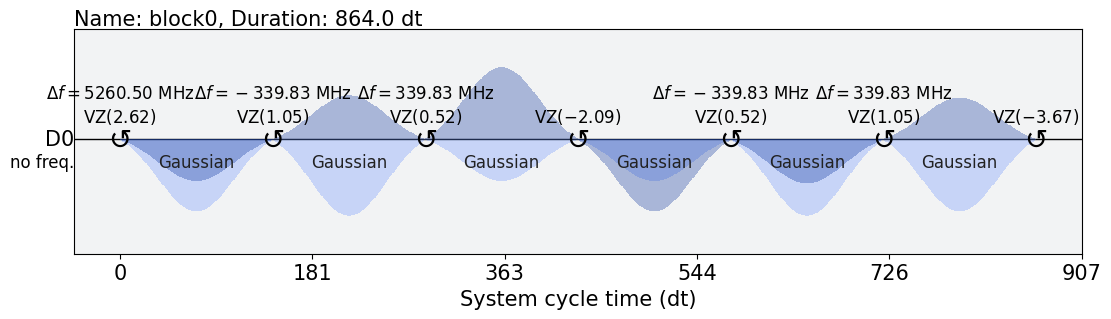
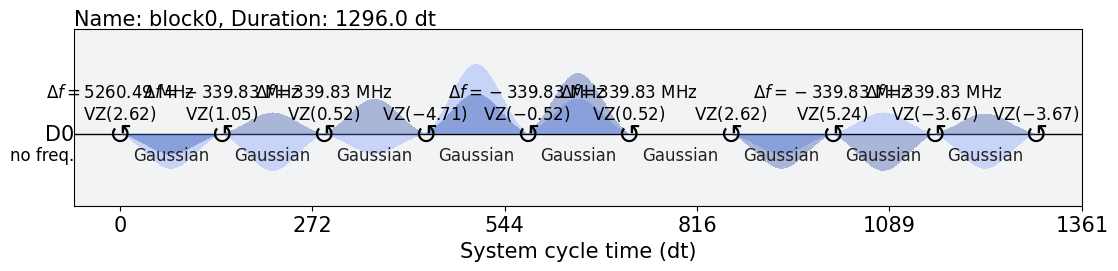
Update_for_qc_algorithm
- Update transpilation
-  Update algo_implementation
- Update Instruction_structure

Changed region(s): [[0.0, 0.0295, 1.0, 0.9742]]

diff --git a/src/algo_implementation.py b/src/algo_implementation.py
@@ -25,7 +25,13 @@ from src.quantumcircuit.QC import Qutrit_circuit
 from src.vm_backend.QASM_backend import QASM_Simulator
 from src.decomposition.transpilation import Pulse_Wrapper, SU3_matrices
 from src.pulse import Pulse01, Pulse12
+from src.pulse_creation import GateSchedule
+# Qiskit library
+from qiskit import QuantumCircuit
+from qiskit import pulse
+from qiskit.circuit import Gate
 from qiskit_ibm_provider.ibm_provider import IBMProvider
+from matplotlib import pyplot as plt
 
 pi = np.pi
 
@@ -34,7 +40,7 @@ Hardware configuration
 """
 
 provider = IBMProvider()
-backend = provider.get_backend('ibm_nairobi')
+backend = provider.get_backend('ibm_brisbane')
 # get information about backend
 backend_defaults = backend.defaults()
 backend_properties = backend.properties()
@@ -44,8 +50,8 @@ drive_freq = backend.properties().qubit_property(0)['frequency'][0]
 anha_freq = backend.properties().qubit_property(0)['anharmonicity'][0]
 qc_list = []
 
-pulse01 = Pulse01(frequency=drive_freq, x_amp=0.13884080278518465, duration=144)
-pulse12 = Pulse12(frequency=drive_freq + anha_freq, x_amp=0.12084181361250045, duration=144, pulse01=pulse01)
+pulse01 = Pulse01(frequency=drive_freq, x_amp=0.19853023611050985, duration=120)
+pulse12 = Pulse12(frequency=drive_freq + anha_freq, x_amp=0.19853023611050985, duration=120, pulse01=pulse01)
 n_qutrit = 1
 
 """
@@ -76,40 +82,73 @@ u_ft = (1 / np.sqrt(3)) * np.array([[omega, 1, np.conj(omega)],
                                     [np.conj(omega), 1, omega]], dtype=complex)
 u_dft = np.matrix(u_ft).H
 """
+Prepare for discriminator
+"""
+circ_list = []
+for i in range(3):
+    circ = QuantumCircuit(1, 1)
+    if i == 1:
+        circ.x(0)
+    elif i == 2:
+        # x02_sched = GateSchedule.x_amp_gaussian(pulse_model=Pulse12, qubit=0,
+        #                                         backend=backend, x_amp=0.19853023611050985)
+        with pulse.build(backend=backend) as x02_sched:
+            drive_chan = pulse.channels.DriveChannel(0)
+            pulse.set_frequency(drive_freq + anha_freq, drive_chan)
+            pulse.play(pulse.Gaussian(duration=120,
+                                      sigma=30, amp=0.19853023611050985), drive_chan)
+        custom_gate = Gate('my_custom_gate', 1, [i])
+        circ.add_calibration('my_custom_gate', [0], x02_sched, [i])
+        circ.append(custom_gate, [0])
+    circ_list.append(circ)
+"""
 Theoretically implementation
 """
-final_value = []
-qc = Qutrit_circuit(1, None)
 
-qc.add_gate("u_ft", first_qutrit_set=0)
-# u_ft_decompose = SU3_matrices(su3=u_ft, qutrit_index=0, n_qutrits=1)
-# qc_sub = u_ft_decompose.decomposed_into_qc()
-# qc += qc_sub
+for i in range(6):
+    qc = Qutrit_circuit(1, None)
 
-# decomposer = SU3_matrices(su3=matrix_array[0], qutrit_index=0, n_qutrits=1)
-# qc_sub = decomposer.decomposed_into_qc()
-# qc += qc_sub
+    qc.add_gate("u_ft", first_qutrit_set=0)
+    # u_ft_decompose = SU3_matrices(su3=u_ft, qutrit_index=0, n_qutrits=1)
+    # qc_sub = u_ft_decompose.decomposed_into_qc()
+    # qc += qc_sub
+    if i != 0:
+        qc.add_customized_gate("custom_gate_0", first_qutrit_set=0, custom_matrix=matrix_array[i])
+    # decomposer = SU3_matrices(su3=matrix_array[1], qutrit_index=0, n_qutrits=1)
+    # qc_sub = decomposer.decomposed_into_qc()
+    # qc += qc_sub
 
-qc.add_gate("u_ft", first_qutrit_set=0, is_dagger=True)
-# u_dft_decompose = SU3_matrices(su3=u_dft, qutrit_index=0, n_qutrits=1)
-# qc_sub = u_dft_decompose.decomposed_into_qc()
-# qc += qc_sub
+    qc.add_gate("u_ft", first_qutrit_set=0, is_dagger=True)
+    # u_dft_decompose = SU3_matrices(su3=u_dft, qutrit_index=0, n_qutrits=1)
+    # qc_sub = u_dft_decompose.decomposed_into_qc()
+    # qc += qc_sub
+    # qc.measure_all()
+    # backend = QASM_Simulator(qc=qc)
+    # backend.run(num_shots=2048)
+    # qc.draw()
+    # print("Simulation Value: ", backend.get_counts())
 
-qc.measure_all()
-backend = QASM_Simulator(qc=qc)
-backend.run(num_shots=2048)
-qc.draw()
-print("Simulation Value: ", backend.get_counts())
-"""
-Hardware implementation
-"""
-pulse_wrap = Pulse_Wrapper(pulse01, pulse12, qc=qc, native_gates=['x12', 'x01',
-                                                                  'rx12', 'rx01',
-                                                                  'rz01', 'rz12',
-                                                                  'z01', 'z12'], backend=backend)
-pulse_wrap.decompose()
-pulse_wrap.print_decompose_ins()
-pulse_wrap.convert_to_pulse_model()
-pulse_wrap.print_decompose_pulse()
-pulse_wrap.pulse_model_to_qiskit()
-pulse_wrap.print_qiskit_schedule()
+    """
+    Hardware implementation
+    """
+    pulse_wrap = Pulse_Wrapper(pulse01, pulse12, qc=qc, native_gates=['x12', 'x01',
+                                                                      'rx12', 'rx01',
+                                                                      'rz01', 'rz12',
+                                                                      'z01', 'z12', 'g01', 'g12'], backend=backend)
+    pulse_wrap.decompose()
+    # pulse_wrap.print_decompose_ins()
+    pulse_wrap.convert_to_pulse_model()
+    # pulse_wrap.print_decompose_pulse()
+    qiskit_sched = pulse_wrap.pulse_model_to_qiskit()
+    # pulse_wrap.print_qiskit_schedule()
+    circ = QuantumCircuit(1, 1)
+    custom_gate = Gate('my_custom_gate', 1, [i])
+    circ.add_calibration('my_custom_gate', [0], qiskit_sched, [i])
+    circ.append(custom_gate, [0])
+    # circ.measure(0, 0)
+    circ.draw('mpl')
+    plt.show()
+    circ_list.append(circ)
+
+# Run on IBMQ device
+backend.run(circ_list, shots=2048, meas_level=1)

diff --git a/src/quantumcircuit/QC.py b/src/quantumcircuit/QC.py
@@ -89,6 +89,37 @@ class Qutrit_circuit:
                               parameter=parameter, inverse=is_dagger)
             self.operation_set = [ins]
 
+    def add_customized_gate(self, gate_type: str,
+                            first_qutrit_set: int,
+                            second_qutrit_set: int = None,
+                            parameter: List[float] = None,
+                            to_all: bool = False,
+                            is_dagger: bool = False,
+                            custom_matrix: NDArray = None) -> None:
+        """
+        Args:
+            gate_type: the type of qutrit gate
+            first_qutrit_set: the index of first qutrit that the gate has effect on
+            second_qutrit_set: the index of second qutrit that the gate has effect on (for multi-qutrit gate)
+            parameter: the parameter of the gate
+            to_all: apply the gate to all qutrit in the circuit or not?
+            is_dagger: complex conjugate of the given gate
+            custom_matrix: gate_matrix for the customized gate
+        Returns:
+        """
+        if to_all is True and second_qutrit_set is None:
+            for i in range(self.n_qutrit):
+                ins = Instruction(gate_type=gate_type, n_qutrit=self.n_qutrit,
+                                  first_qutrit_set=i, second_qutrit_set=second_qutrit_set,
+                                  parameter=parameter, inverse=is_dagger, custom=True, custom_matrix=custom_matrix)
+                self.operation_set = [ins]
+
+        else:
+            ins = Instruction(gate_type=gate_type, n_qutrit=self.n_qutrit,
+                              first_qutrit_set=first_qutrit_set, second_qutrit_set=second_qutrit_set,
+                              parameter=parameter, inverse=is_dagger, custom=True, custom_matrix=custom_matrix)
+            self.operation_set = [ins]
+
     def measure_all(self):
         """
         Adding measurement in the qutrit circuit

diff --git a/src/quantumcircuit/instruction_structure.py b/src/quantumcircuit/instruction_structure.py
@@ -66,9 +66,12 @@ class Instruction:
                  n_qutrit: int, first_qutrit_set: int,
                  second_qutrit_set: int | None = 0,
                  parameter: List[float] = None,
-                 inverse: bool = False) -> None:
+                 inverse: bool = False,
+                 custom: bool = False,
+                 custom_matrix: NDArray = None) -> None:
         self._type = gate_type
-        self._verify_gate()
+        if custom is False:
+            self._verify_gate()
         self.n_qutrit: int = n_qutrit
         self.qutrit_dimension: int = 3 ** self.n_qutrit
         self.parameter: List[float] = parameter
@@ -76,6 +79,7 @@ class Instruction:
         self.second_qutrit: int = second_qutrit_set
         self._is_two_qutrit_gate: bool = False
         self._is_inverse = inverse
+        self._is_custom = custom
         if first_qutrit_set > (self.n_qutrit - 1):
             raise Exception("Acting qutrit is not defined")
         if second_qutrit_set is not None:
@@ -89,10 +93,14 @@ class Instruction:
                                                                second_index=self.second_qutrit)).getH()
         else:
             self._is_two_qutrit_gate = False
-            if self._is_inverse is False:
+            # Check if the gate is custom
+            if self._is_custom is False:
                 self.gate_matrix = single_matrix_form(gate_type=self._type, parameter=self.parameter)
             else:
-                self.gate_matrix = np.matrix(single_matrix_form(gate_type=self._type, parameter=self.parameter)).getH()
+                self.gate_matrix = custom_matrix
+            # Check if we want the inverse of this gate
+            if self._is_inverse is True:
+                self.gate_matrix = np.matrix(self.gate_matrix).getH()
         self._effect_matrix = self._effect()
 
     def _effect(self) -> NDArray:

diff --git a/src/decomposition/transpilation.py b/src/decomposition/transpilation.py
@@ -271,9 +271,9 @@ class Pulse_Wrapper:
         Convert to internal Pulse Model
         """
         cnt = 0
-        alpha = 0.0
-        beta = 0.0
-        gamma = 0.0
+        alpha = 4.55047476
+        beta = 0.22474651
+        gamma = 0.03502484
         advance_phase = np.array([0.0, 0.0])  # Implementation of phase advance
         for instruction in self.ins_list:
             if type(instruction) == str:
